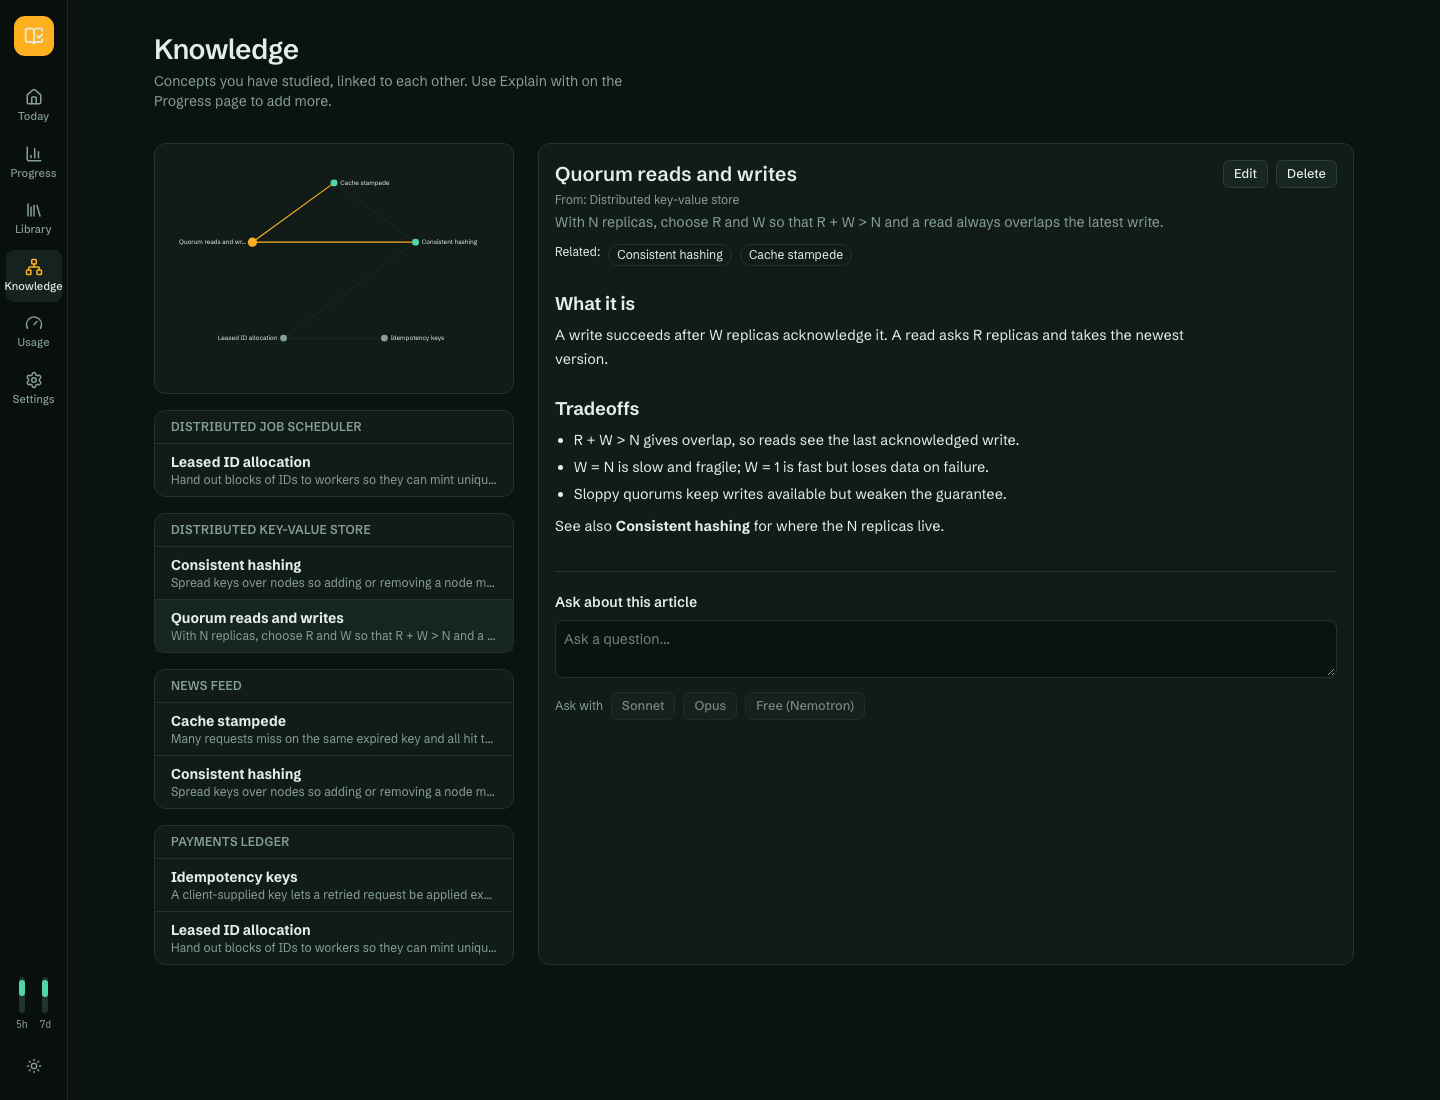
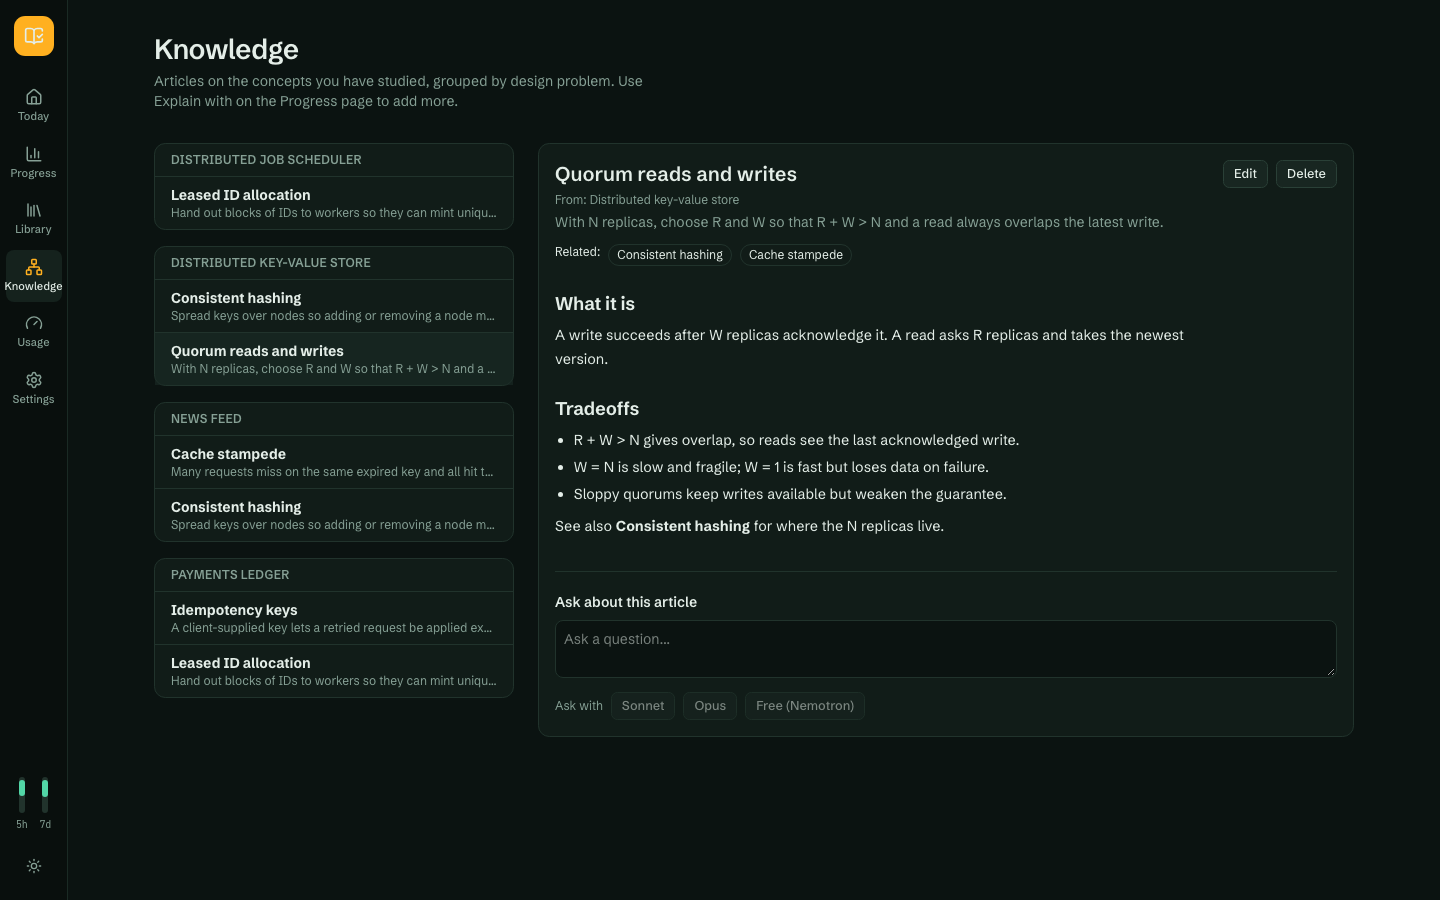
Knowledge page: drop graph view, show articles grouped by design problem

diff --git a/web/src/components/knowledge/knowledge-view.tsx b/web/src/components/knowledge/knowledge-view.tsx
@@ -14,33 +14,6 @@ import type { KgArticle, KgGraph } from "@/lib/types";
 export const EXPLAIN_MODELS = [["sonnet", "Sonnet"], ["opus", "Opus"], ["free", "Free (Nemotron)"]] as const;
 export type ExplainModel = (typeof EXPLAIN_MODELS)[number][0];
 
-function GraphView({ g, selected, onPick }: { g: KgGraph; selected: number | null; onPick: (id: number) => void }) {
-  const n = g.nodes.length;
-  const R = 150, C = 190;
-  const pos = new Map(g.nodes.map((x, i) => [x.id, { x: C + R * Math.cos((2 * Math.PI * i) / n - Math.PI / 2), y: C + R * Math.sin((2 * Math.PI * i) / n - Math.PI / 2) }]));
-  const linked = new Set(g.edges.filter((e) => e.src === selected || e.dst === selected).flatMap((e) => [e.src, e.dst]));
-  return (
-    <svg viewBox={`-95 0 ${2 * C + 190} ${2 * C}`} className="mx-auto w-full max-w-[640px]" role="img" aria-label="Knowledge graph">
-      {g.edges.map((e, i) => {
-        const a = pos.get(e.src), b = pos.get(e.dst);
-        if (!a || !b) return null;
-        const hot = e.src === selected || e.dst === selected;
-        return <line key={i} x1={a.x} y1={a.y} x2={b.x} y2={b.y} stroke={hot ? "var(--signal)" : "var(--border)"} strokeWidth={hot ? 2 : 1} />;
-      })}
-      {g.nodes.map((x) => {
-        const p = pos.get(x.id)!;
-        const on = x.id === selected, near = linked.has(x.id);
-        const left = p.x < C;
-        return (
-          <g key={x.id} className="cursor-pointer" onClick={() => onPick(x.id)}>
-            <circle cx={p.x} cy={p.y} r={on ? 8 : 6} fill={on ? "var(--signal)" : near ? "var(--mint)" : "var(--muted-foreground)"} />
-            <text x={p.x + (left ? -11 : 11)} y={p.y + 4} textAnchor={left ? "end" : "start"} fontSize={11} fill="var(--foreground)">{x.title.length > 20 ? x.title.slice(0, 19) + "…" : x.title}</text>
-          </g>);
-      })}
-    </svg>
-  );
-}
-
 function AskPanel({ a, onAppend }: { a: KgArticle; onAppend: (q: string, ans: string) => Promise<void> }) {
   const [q, setQ] = useState("");
   const [busy, setBusy] = useState<ExplainModel | null>(null);
@@ -133,11 +106,10 @@ export function KnowledgeView() {
   const go = (x: number | null) => router.push(x ? `/knowledge/?id=${x}` : "/knowledge/");
   return (
     <Page wide>
-      <PageHeader title="Knowledge" subtitle="Concepts you have studied, linked to each other. Use Explain with on the Progress page to add more." />
+      <PageHeader title="Knowledge" subtitle="Articles on the concepts you have studied, grouped by design problem. Use Explain with on the Progress page to add more." />
       {g.nodes.length === 0 ? <Panel><p className="text-sm text-muted-foreground">Nothing here yet. Click Explain with on a concept in Progress and its article lands here.</p></Panel> : (
         <div className="grid gap-6 lg:grid-cols-[360px_1fr]">
           <div className="space-y-4">
-            <Panel><GraphView g={g} selected={id} onPick={go} /></Panel>
             {groups.map(([title, nodes]) => (
               <Panel key={title} className="p-0">
                 <h3 className="border-b px-4 py-2 text-xs font-semibold uppercase tracking-wide text-muted-foreground">{title}</h3>
